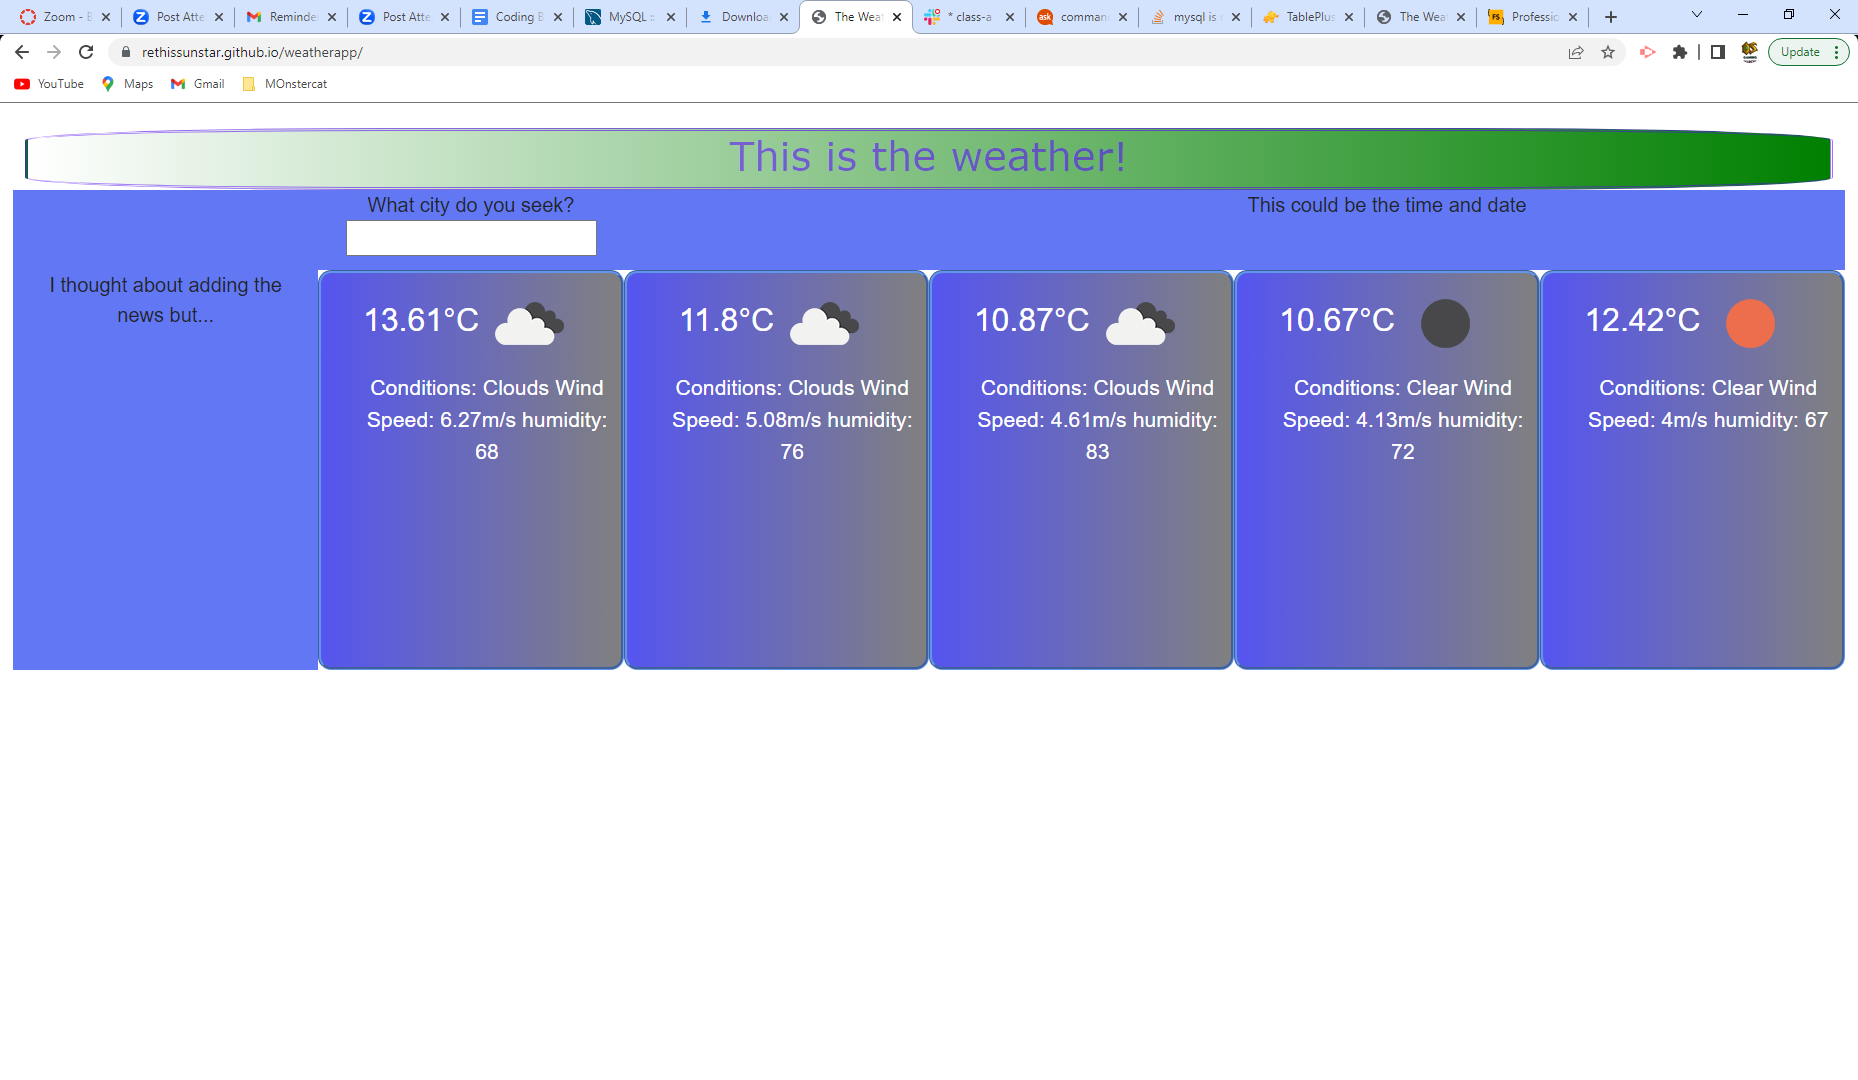
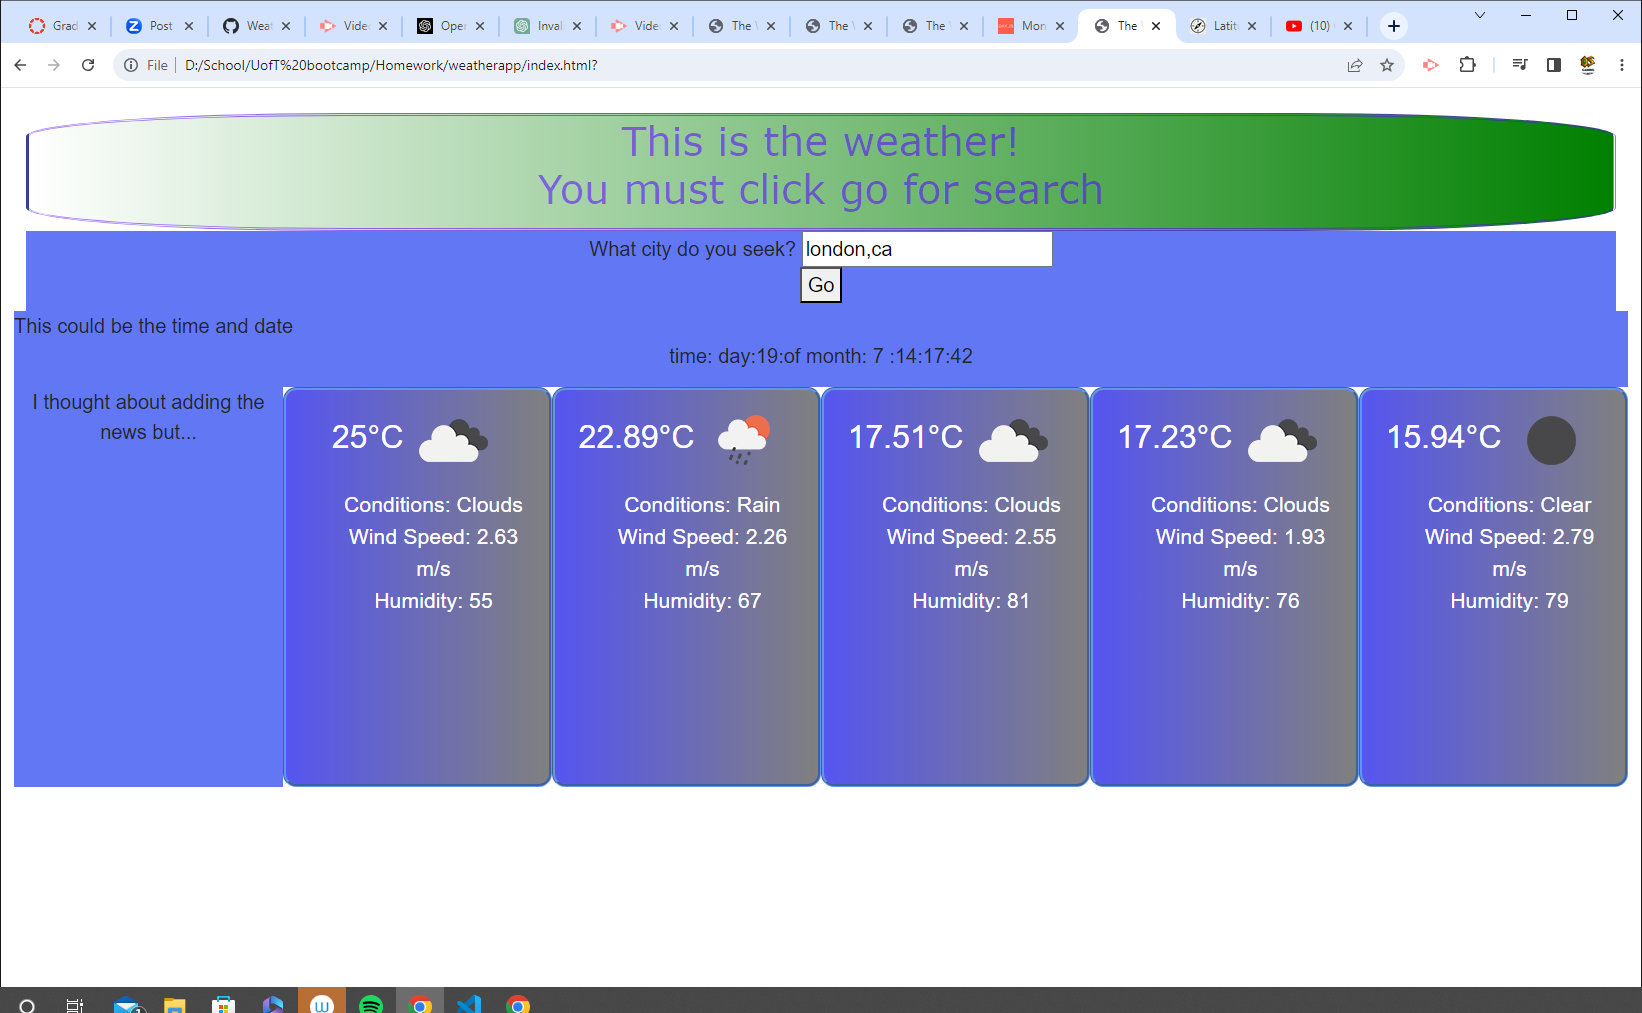
found a way to get the geolocation

diff --git a/code.js b/code.js
@@ -1,89 +1,150 @@
-var cityName = 'Toronto';
-var stateName = 'Ontario';
-var countryCode = 'CA';
-var apiKey = '8822afbe38e751d526fa225aa1e81c83';
-let lonAndlat = 'this';
-let lon = '-79.4163';
-let lat = '43.7001';
-let day1pane = document.getElementById('day1');
-let dayFind= document.getElementById('day'+1);
-// fetch('https://cors-anywhere.herokuapp.com/https://api.openweathermap.org/data/2.5/forecast?appid='+apiKey,{
-//     headers: {
-//         'Content-Type': 'application/json',
-//         'Access-Control-Allow-Origin': '*'
-//     }
-// })
 
-    // .then(function (response){
-    //     console.log(response);
-    //     // return response;
-    // })
-    // .then(function(data){
-    //     console.log(data);
-    // })
-
-//from the analysis 
-var requestOptions = {
-    method: 'GET',
-    redirect: 'follow'
-  };
-  
-  fetch("https://api.openweathermap.org/geo/1.0/direct?q=Toronto,CA&limit=5&appid=8822afbe38e751d526fa225aa1e81c83", requestOptions)
-    .then(response => response.text())
-    .then(result => console.log(result))
-    .catch(error => console.log('error', error));
-  
-
-fetch("https://api.openweathermap.org/data/2.5/forecast?units=metric&lat=" +lat +"&"+"lon="+lon+"&appid=" +  apiKey)
-    .then(function (response){
-        console.log('this happened')
-        //localStorage.setItem(lonAndlat, JSON.stringify(response.json))
-        
-        return response.json();
-    })
-    .then(function (data){
-        console.log(data);
-        //remember you have to iterate on dayPaste you may beed to create a new variable
-        //inserting the for loop
-        for (var i = 0; i<5; i++){
-            let dayPaste= document.getElementById('day'+(i+1));
-            dayPaste.style.fontSize = '24pt';
-            dayPaste.innerHTML = data.list[i].main.temp + '&#176' +"C";
-            const imgElement = document.createElement("img" );
-            imgElement.src = "https://openweathermap.org/img/wn/" + data.list[i].weather[0].icon + "@2x.png"
-            dayPaste.appendChild(imgElement);
-            //create a list where we are going to add the description of weather condition, the wind speed and the humidity
-            //so we have to append a list then we have to append to the list the listed attributes and make sure to format without the ul nonsense.
-            const listElement = document.createElement('ul');
-            listElement.style.fontSize = '16pt';
-            listElement.innerHTML = `Conditions: `+ data.list[i].weather[0].main  +`\n Wind Speed: ` + data.list[i].wind.speed + `m/s` + `\n` +`humidity: ` + data.list[i].main.humidity;
-            //this is a terrible API - units are everything.
-            dayPaste.appendChild(listElement);
-        }
-        // let dayPaste= document.getElementById('day'+1);
-        // dayPaste.style.fontSize = '24pt';
-        // dayPaste.innerHTML = data.list[0].main.temp + '&#176' +"C";
-        // const imgElement = document.createElement("img" );
-        // imgElement.src = "https://openweathermap.org/img/wn/" + data.list[0].weather[0].icon + "@2x.png"
-        // dayPaste.appendChild(imgElement);
-        // //create a list where we are going to add the description of weather condition, the wind speed and the humidity
-        // //so we have to append a list then we have to append to the list the listed attributes and make sure to format without the ul nonsense.
-        // const listElement = document.createElement('ul');
-        // listElement.style.fontSize = '16pt';
-        // listElement.innerHTML = `Conditions: `+ data.list[0].weather[0].main  +`\n Wind Speed: ` + data.list[0].wind.speed + `m/s` + `\n` +`humidity: ` + data.list[0].main.humidity;
-        // //this is a terrible API - units are everything.
-        // dayPaste.appendChild(listElement);
     
-        // const windText = listElement.textContent('Placeholder2');
-        // const humidText = listElement.textContent('Placeholder3');
+//     fetch("https://api.openweathermap.org/data/2.5/forecast?units=metric&lat=" +lat +"&"+"lon="+lon+"&appid=" +  apiKey)
+//         .then(function (response){
+//             console.log('this happened')
+//             //localStorage.setItem(lonAndlat, JSON.stringify(response.json))
+            
+//             return response.json();
+//         })
+//         .then(function (data){
+//             console.log(data);
+//             //remember you have to iterate on dayPaste you may beed to create a new variable
+//             //inserting the for loop
+//             for (var i = 0; i<5; i++){
+//                 let dayPaste= document.getElementById('day'+(i+1));
+//                 dayPaste.style.fontSize = '24pt';
+//                 dayPaste.innerHTML = data.list[i].main.temp + '&#176' +"C";
+//                 const imgElement = document.createElement("img" );
+//                 imgElement.src = "https://openweathermap.org/img/wn/" + data.list[i].weather[0].icon + "@2x.png"
+//                 dayPaste.appendChild(imgElement);
+//                 //create a list where we are going to add the description of weather condition, the wind speed and the humidity
+//                 //so we have to append a list then we have to append to the list the listed attributes and make sure to format without the ul nonsense.
+//                 const listElement = document.createElement('ul');
+//                 listElement.style.fontSize = '16pt';
+//                 listElement.innerHTML = `Conditions: `+ data.list[i].weather[0].main  +`\n Wind Speed: ` + data.list[i].wind.speed + `m/s` + `\n` +`humidity: ` + data.list[i].main.humidity;
+//                 //this is a terrible API - units are everything.
+//                 dayPaste.appendChild(listElement);
+//             }
+//             // let dayPaste= document.getElementById('day'+1);
+//             // dayPaste.style.fontSize = '24pt';
+//             // dayPaste.innerHTML = data.list[0].main.temp + '&#176' +"C";
+//             // const imgElement = document.createElement("img" );
+//             // imgElement.src = "https://openweathermap.org/img/wn/" + data.list[0].weather[0].icon + "@2x.png"
+//             // dayPaste.appendChild(imgElement);
+//             // //create a list where we are going to add the description of weather condition, the wind speed and the humidity
+//             // //so we have to append a list then we have to append to the list the listed attributes and make sure to format without the ul nonsense.
+//             // const listElement = document.createElement('ul');
+//             // listElement.style.fontSize = '16pt';
+//             // listElement.innerHTML = `Conditions: `+ data.list[0].weather[0].main  +`\n Wind Speed: ` + data.list[0].wind.speed + `m/s` + `\n` +`humidity: ` + data.list[0].main.humidity;
+//             // //this is a terrible API - units are everything.
+//             // dayPaste.appendChild(listElement);
         
+//             // const windText = listElement.textContent('Placeholder2');
+//             // const humidText = listElement.textContent('Placeholder3');
+            
+    
+//             // for (var i=0; i<5; i++){
+//             //     console.log('there is something here ' + i)
+//             //     console.log(data[i]);
+//             //     let dayPaste = document.getElementById('day'+i);
+//             //     dayPaste.innerHTML = 'the Temp is' + data[i].list[i].main.temp;
+    
+//             }
+//             //console.log(data);
+//         )   
 
-        // for (var i=0; i<5; i++){
-        //     console.log('there is something here ' + i)
-        //     console.log(data[i]);
-        //     let dayPaste = document.getElementById('day'+i);
-        //     dayPaste.innerHTML = 'the Temp is' + data[i].list[i].main.temp;
+document.addEventListener('DOMContentLoaded', function() {
+    var realtime = dayjs().hour();
+    var headEl = document.getElementById('readout');
+    var clockEl = document.createElement("p");
+    var timerInterval;
+    var timercount = dayjs().hour() + ':' + dayjs().minute() + ':' + dayjs().second();
+  
+    function clockTime() {
+      
+    }
+  
+    var timerInterval = setInterval(function() {
+      timercount = "day:" + dayjs().date()+ ':' + "of month: "+ (dayjs().month()+1) + ' :' + dayjs().hour() + ':' + dayjs().minute() + ':' + dayjs().second();
+      clockEl.innerHTML = 'time: ' + timercount;
+    }, 1000);
+  
+    headEl.appendChild(clockEl);
+    clockTime();
+    console.log(realtime);
+  });
+  
 
+
+// var requestOptions = {
+//     method: 'GET',
+//     redirect: 'follow'
+//   };
+  
+// //   fetch("https://api.openweathermap.org/geo/1.0/direct?q=${cityName},CA&limit=5&appid=8822afbe38e751d526fa225aa1e81c83", requestOptions)
+// //     .then(response => response.text())
+// //     .then(result => console.log(result))
+// //     .catch(error => console.log('error', error));
+  
+
+
+// // function fetchData() {
+// //     fetch(`https://api.openweathermap.org/geo/1.0/direct?q=${cityName},CA&limit=5&appid=8822afbe38e751d526fa225aa1e81c83`, requestOptions)
+// //       .then(response => response.json())
+// //       .then(data => {
+// //         const lon = data[0].lon;
+// //         const lat = data[0].lat;
+// //         console.log('Longitude:', longitude);
+// //         console.log('Latitude:', latitude);
+// //         // Do further processing with longitude and latitude values
+// //       })
+// //       .catch(error => console.log('error', error));
+// //   }
+
+// //   fetchData();
+// let getCoord = "https://api.openweathermap.org/data/2.5/weather?q=" + cityName + "&APPID=" + apiKey + "&units=imperial";
+
+document.addEventListener('DOMContentLoaded', function() {
+    document.getElementById('button').addEventListener('click', function() {
+      const cityNameInput = document.getElementById('cityName');
+      const cityName = cityNameInput.value;
+      //const countryCodeInput = document.getElementById('countryCode');
+      //const countryCode = countryCodeInput.value;
+      const apiKey = '8822afbe38e751d526fa225aa1e81c83';
+  
+     $.ajax({
+        url: "https://api.openweathermap.org/data/2.5/weather?q=" + cityName + "&APPID=" + apiKey + "&units=imperial",
+        method: "GET",
+        success: function(data) {
+          const lon = data.coord.lon;
+          const lat = data.coord.lat;
+          console.log('Longitude:', lon);
+          console.log('Latitude:', lat);
+          
+           
+           fetch("https://api.openweathermap.org/data/2.5/forecast?units=metric&lat=" + lat + "&lon=" + lon + "&appid=" + apiKey)
+            .then(response => response.json())
+            .then(data => {
+              for (var i = 0; i < 5; i++) {
+                let dayPaste = document.getElementById('day' + (i + 1));
+                dayPaste.style.fontSize = '24pt';
+                dayPaste.innerHTML = data.list[i].main.temp + '&#176;C';
+                const imgElement = document.createElement("img");
+                imgElement.src = "https://openweathermap.org/img/wn/" + data.list[i].weather[0].icon + "@2x.png";
+                dayPaste.appendChild(imgElement);
+                const listElement = document.createElement('ul');
+                listElement.style.fontSize = '16pt';
+                listElement.innerHTML = `Conditions: ${data.list[i].weather[0].main}<br>Wind Speed: ${data.list[i].wind.speed} m/s<br>Humidity: ${data.list[i].main.humidity}`;
+                dayPaste.appendChild(listElement);
+              }
+            })
+            .catch(error => console.log('Error:', error));
+        },
+        error: function(error) {
+          console.log('Error:', error);
         }
-        //console.log(data);
-    )
+      });
+    });
+  });
+  

diff --git a/index.html b/index.html
@@ -7,6 +7,9 @@
      <link rel="stylesheet" href="https://cdn.jsdelivr.net/npm/bootstrap@5.2.3/dist/css/bootstrap.min.css">
     <script src="https://cdn.jsdelivr.net/npm/bootstrap@5.2.3/dist/js/bootstrap.bundle.min.js"></script>
     <link rel="stylesheet" href="./assets/style.css">
+    <script src="https://cdn.jsdelivr.net/npm/dayjs@1/dayjs.min.js"></script>
+        <script>dayjs().format()</script>
+        <script src="https://code.jquery.com/jquery-3.6.0.min.js"></script>
     <script src="./code.js"></script>
     <title>The Weather</title>
 </head>
@@ -14,6 +17,7 @@
     <header class="col-12 ">
         <h1>
             This is the weather!
+            <p>You must click go for search</p>
         </h1>
     </header>
     <div class="row-12">
@@ -22,14 +26,14 @@
             <section>
                 <form action="">
                     What city do you seek?
-                    <input type="text">
+                    <input id = 'cityName' type="text">
                 </form>
                 
-                <div class="col-6" id ="countryCode"></div>
-                <form action="">
+                <div class="col-6"></div>
+                <!-- <form action="">
                     What is the country code:
-                    <input type="text">
-                </form>
+                    <input id ="countryCode" type="text">
+                </form> -->
                 <button id="button">Go</button>
             </section>
         </div>
@@ -62,6 +66,6 @@
         </div>
         
  
-    
+        
 </body>
 </html>

diff --git a/README.md b/README.md
@@ -2,10 +2,11 @@
 This is an app that will tell me the next 5 days of weather - let it be more accurate than the weather network.
 
 ## Installation/use
-by going to the website it will bring up Toronto's weather.  It was to be for other cities but the cors error that makes the API not usable unless you sign up for the non-free version requires the use of a second API and no data is coming from that geolocation api. 
+The search is comprehensive you can specify london,CA by following that format. 
 
 ## Credits
 me.  I struggled with this.  Not throwing the tutor under the bus.  I opened the site and the response came back in the wrong order.  You will see the geolocation data did not return anything in the second set.
+I followed the video https://www.youtube.com/watch?v=KSTn6dseNEc for code using ajax as fetch request wasn't working.
 
 ## License
 Done under the MIT license
